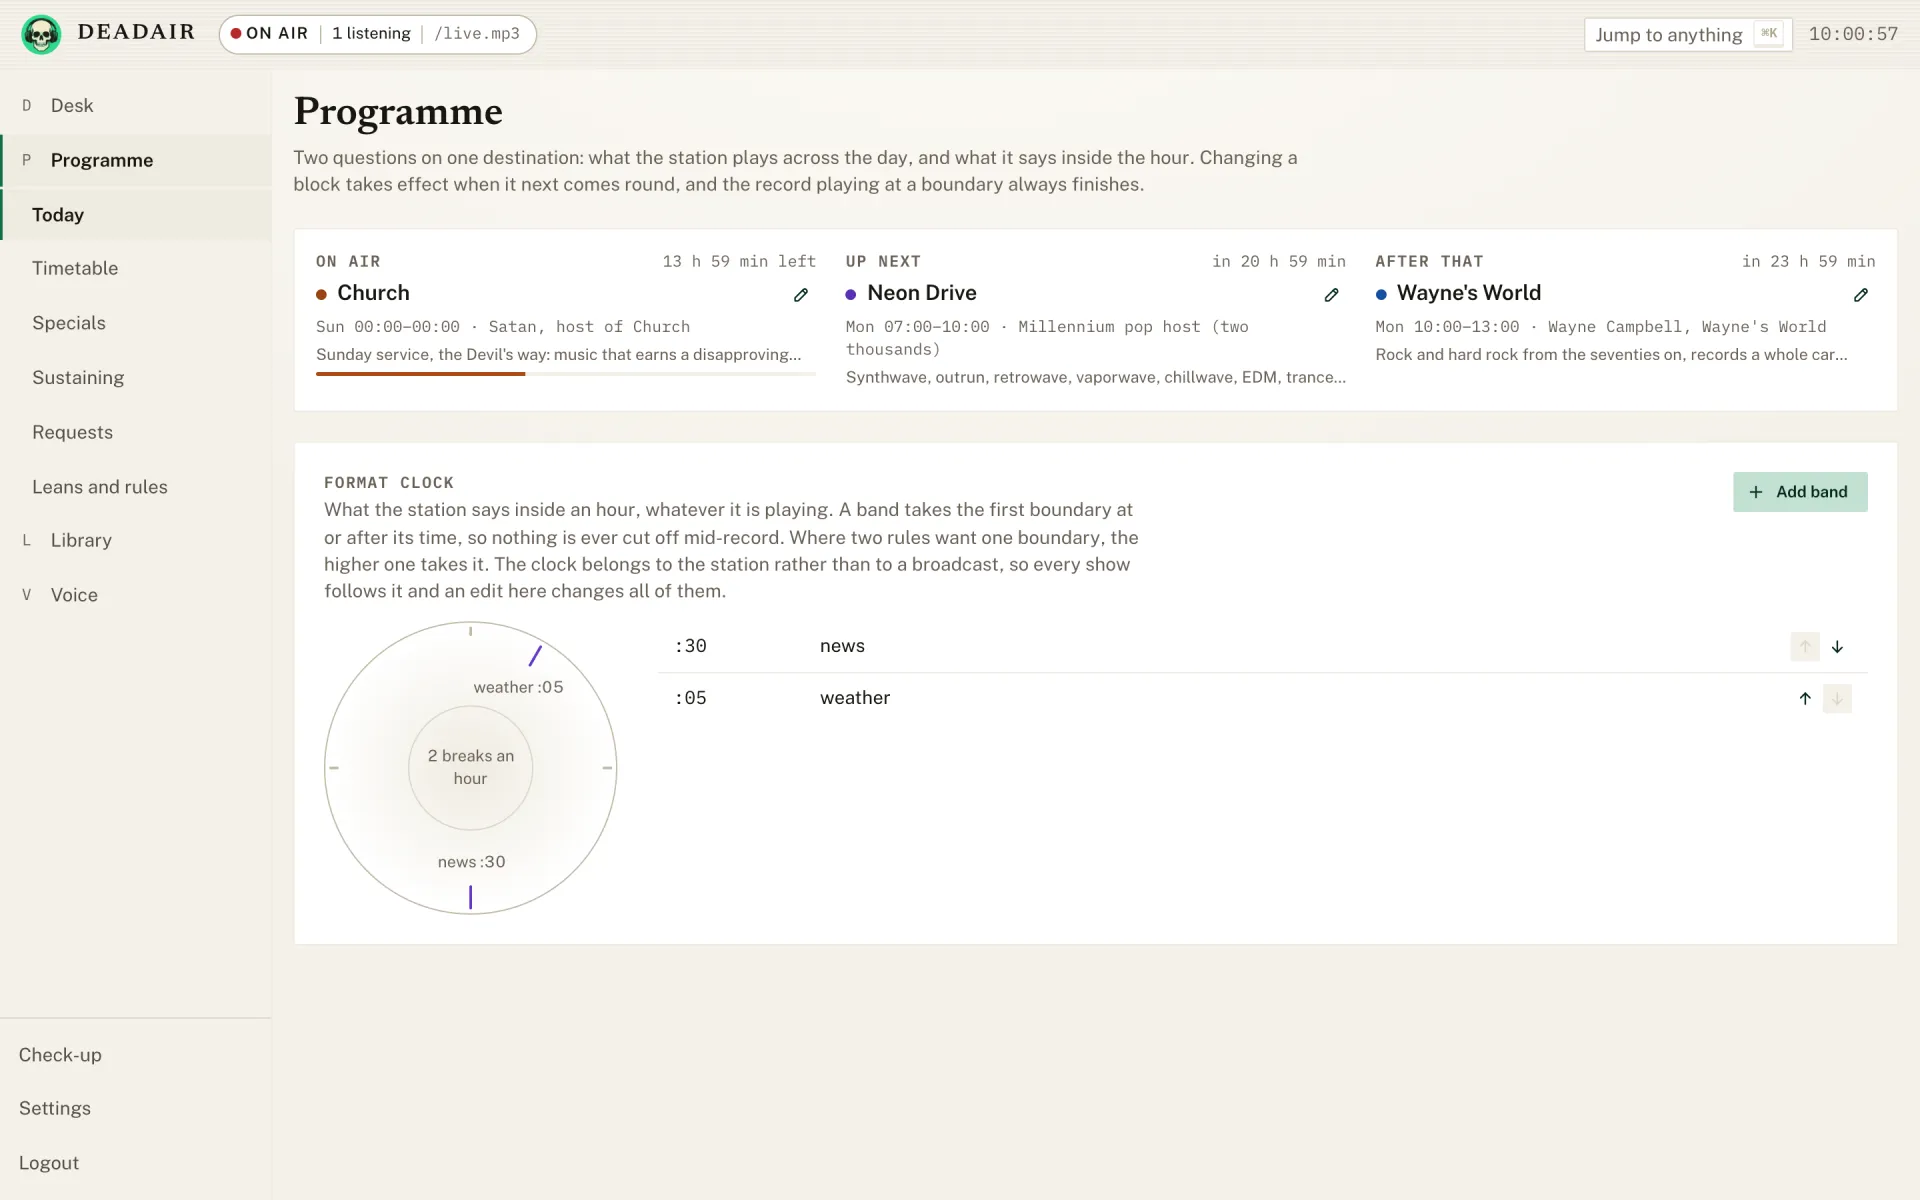
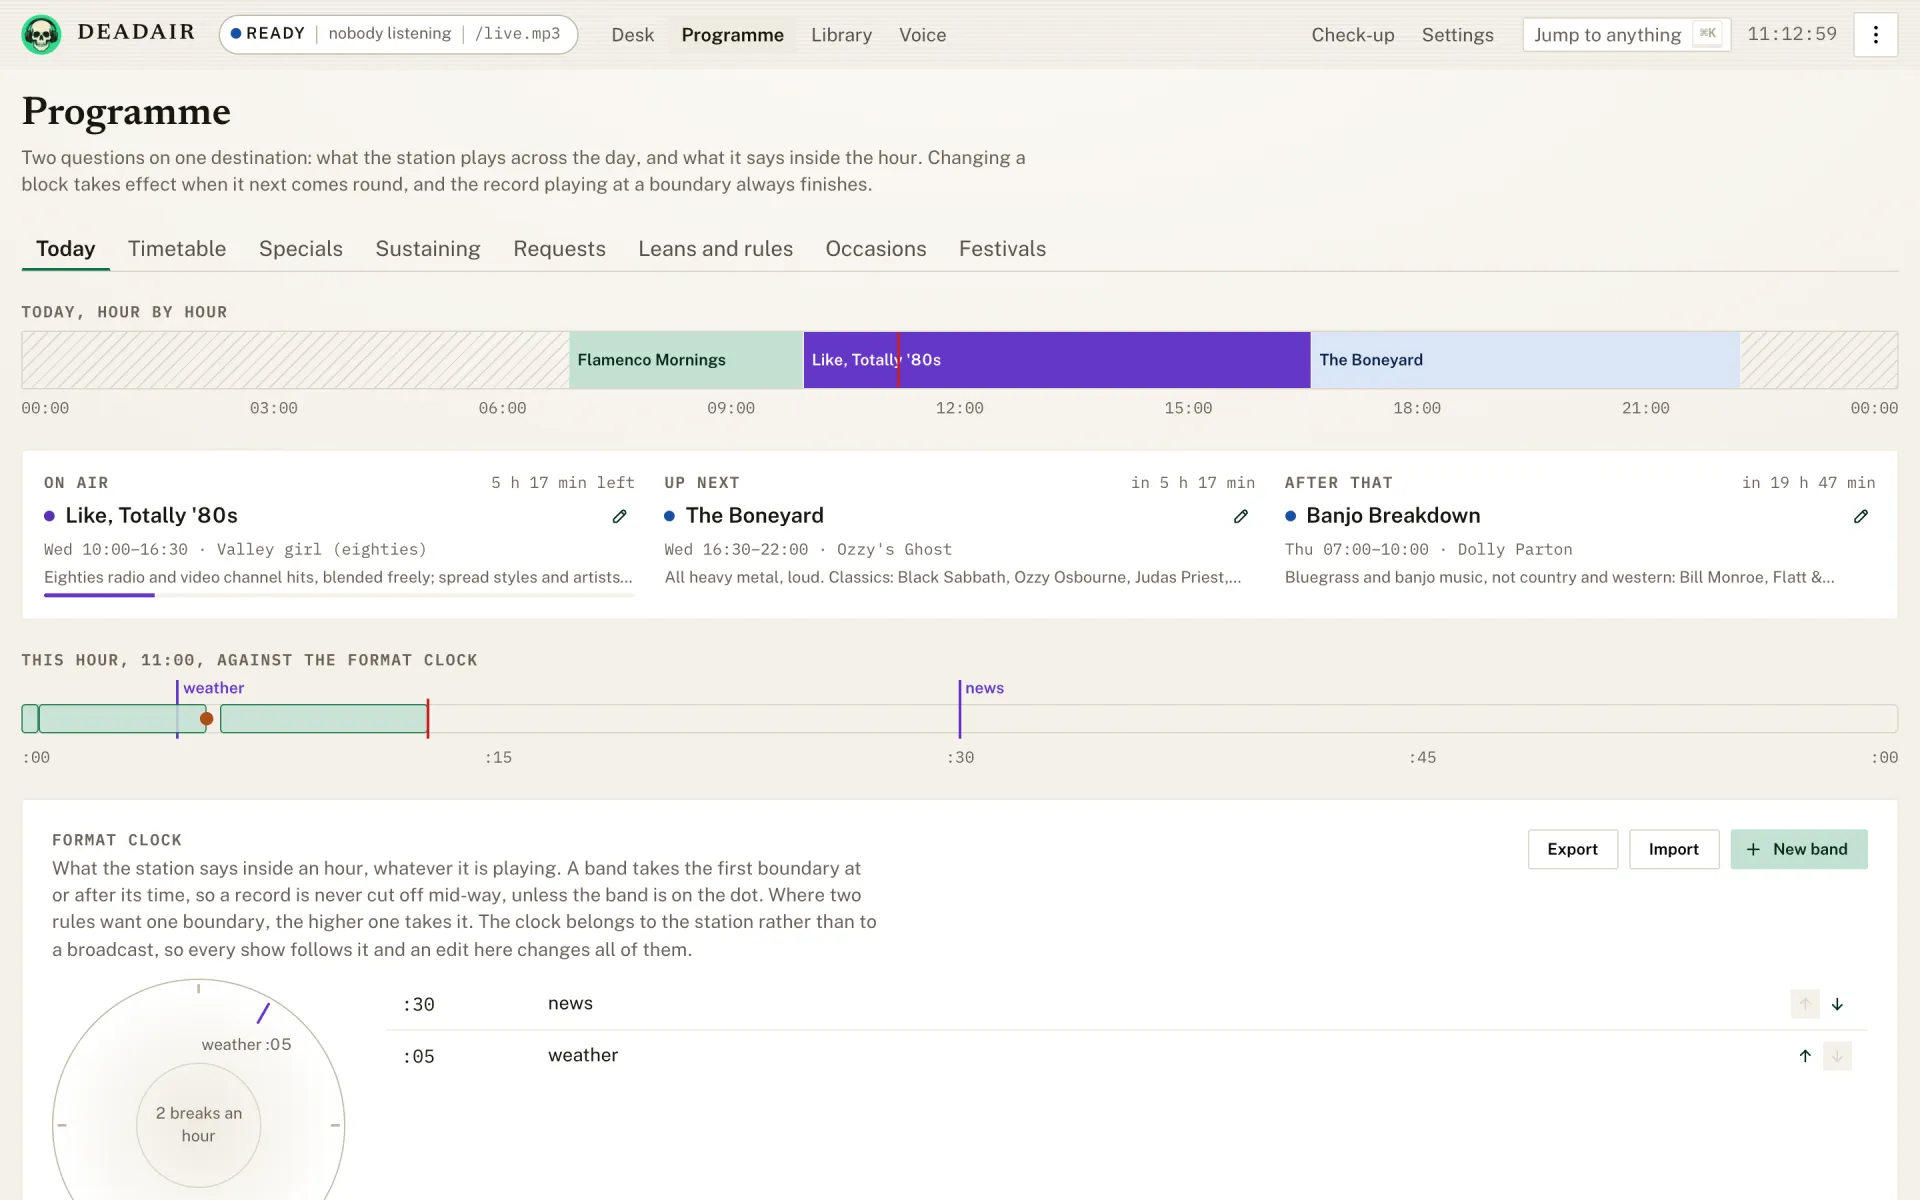
Retake Programme's Today and New special for the site, and say what they now show
Today gained a strip of the whole day and a ruler of this hour against the format clock, and a
new special opens on a page of its own rather than in a dialog, so the three shots of them
showed a console that no longer exists. They are taken again from the live station, in Carbon
and Studio White for Today, and the captions and alt text on the Programme page, the two
tutorials and the home page's figures now describe the day strip, the hour ruler and the page.

diff --git a/apps/site/src/components/console.figures.ts b/apps/site/src/components/console.figures.ts
@@ -49,7 +49,7 @@ export const shots = {
     scheduleToday: {
         src: scheduleToday,
         light: scheduleTodayWhite,
-        alt: 'Programme, Today: the format clock, a dial with a weather band at five past and news at half past.',
+        alt: "Programme, Today: the day as a strip of blocks, what is on now, and this hour's records against a weather band at five past and news at half past.",
     },
     voiceSaid: {
         src: voiceSaid,

diff --git a/apps/site/docs/features/programme.md b/apps/site/docs/features/programme.md
@@ -6,8 +6,8 @@ description: What the station plays across the day and says inside the hour, how
 
 The programme answers two questions: what the station plays across the day, and what it says inside the hour. The first is the timetable and the second the format clock. Underneath both sit rules about which records may air at all, and they hold however a record was chosen.
 
-![Programme, Today: what is on now, and the format clock](/img/console/schedule.today.webp)
-*Fig. 1. Today: the block on air, and the shape of the hour.*
+![Programme, Today: the day hour by hour, what is on now, and this hour against the format clock](/img/console/schedule.today.webp)
+*Fig. 1. Today: the day's blocks, the one on air, and this hour's records against the format clock.*
 
 ## The timetable
 
@@ -52,7 +52,7 @@ A block can be built around a festival. Add the festival on Programme's **Festiv
 ![Programme, Specials: shows on dates rather than every week](/img/console/schedule.specials.webp)
 *Fig. 2. Specials.*
 
-![A new special: a block with a first and last date, and whether it repeats every year](/img/console/schedule.special.editor.webp)
+![A new special on a page of its own: its sections down the left, When first, and how it will sound on the right](/img/console/schedule.special.editor.webp)
 *Fig. 3. A new special.*
 
 ## Modes

diff --git a/apps/site/docs/tutorials/holiday-special.md b/apps/site/docs/tutorials/holiday-special.md
@@ -30,8 +30,8 @@ The editor is the weekly show's, with dates added. This one runs 20:00 to midnig
 which on the station this site is written from lands in the middle of The Boneyard, its weeknight
 metal show:
 
-![The New special editor: a name, hours, dates, and whether it repeats every year](/img/console/schedule.special.editor.webp)
-*Fig. 2. The **New special** editor, before anything is filled in.*
+![The New special page: a name, hours, dates, and whether it repeats every year, with how it will sound beside them](/img/console/schedule.special.editor.webp)
+*Fig. 2. The **New special** page, before anything is filled in.*
 
 | Field | For Halloween night |
 | --- | --- |

diff --git a/apps/site/docs/tutorials/make-a-show.md b/apps/site/docs/tutorials/make-a-show.md
@@ -58,8 +58,8 @@ station, so a band added here applies to every show.
 
 A band waits for the record playing at that time to finish, so nothing is cut off.
 
-![Programme, Today: what is on now, and the format clock](/img/console/schedule.today.webp)
-*Fig. 1. Programme → Today, with the format clock below what is on now.*
+![Programme, Today: the day hour by hour, what is on now, and this hour against the format clock](/img/console/schedule.today.webp)
+*Fig. 1. Programme → Today: the day hour by hour, what is on now, and this hour against the format clock.*
 
 ### 4. Check it
 
